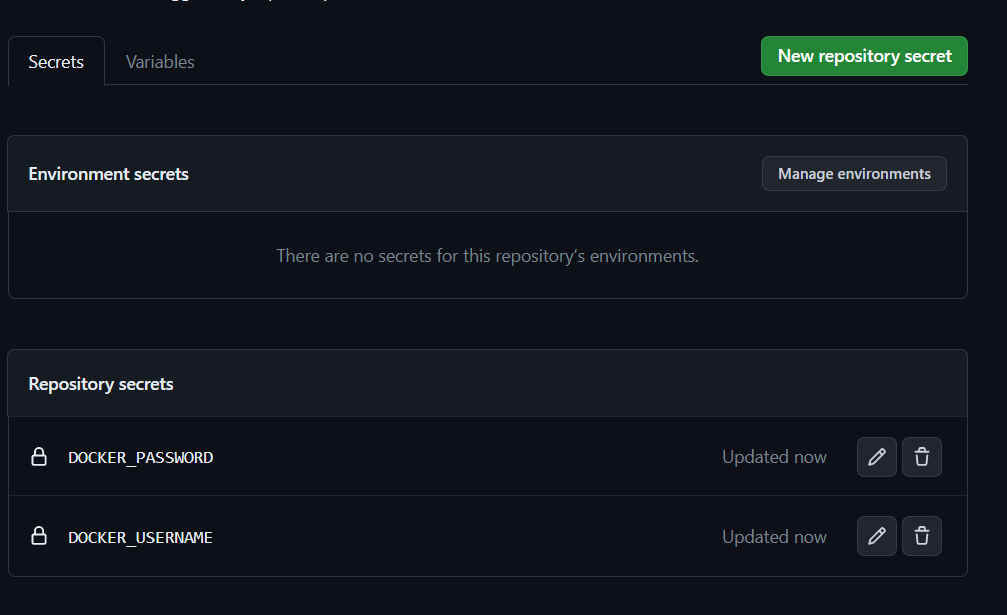
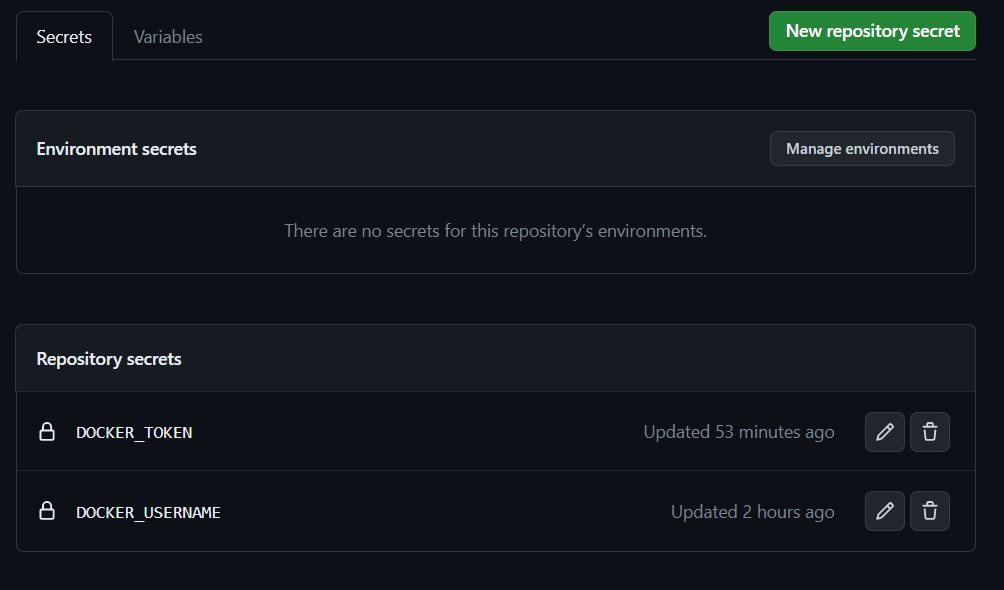
good

diff --git a/sprawozdanie.md b/sprawozdanie.md
@@ -24,7 +24,7 @@
         return np.mean(a)
     ```
 
-2. Utorzenie Unitestów testujących funkcje, testują poprawność również przy próbie podzielenia przez 0.
+2. Utorzenie unit testów testujących funkcje, testują poprawność również przy próbie podzielenia przez 0.
     ```python
     import kod
     import pytest
@@ -46,7 +46,7 @@
             assert kod.mean([3,4,5]) == 4, "should be 4"
     ```
 
-2. Uruchomienie unitestów lokanie w celu weryfikacji - wszystke przechodzą.
+2. Uruchomienie unit testów lokanie w celu weryfikacji - wszystke przechodzą.
     <br>
     ![Alt text](ss/Lab5/test%20local.PNG)
 
@@ -176,12 +176,56 @@
     <br>
     ![Alt text](ss/Lab7/create%20branch.PNG)
 
+2. Utworzenie akcji uruchamiającej unit testy w momencie pull requesta wykonywanego na gałąź dev. Fragment pliku:
+    <br>
+    ![Alt text](ss/Lab7/dev%20test.PNG)
 
-   
+3. Utworzenie akcji uruchamiającej testy funkcjonalne w momencie pull requesta wykonywanego na gałąź test. Fragment pliku:
+   <br>
+    ![Alt text](ss/Lab7/api%20test.PNG)
 
-Na branch dev na pull requesta uruchomić testy jednostkowe (lab 05)
-Na branch test na pull requesta uruchomić testy funkcjonalne (lab 06)
-W momencie jak pozytywnie przejdzie merge na branchu test to po wykonaniu testów obraz ma być spuchowany do docker huba ( login i hasło umieszczamy w sekretach repozytoirum, nie podajemy czystego hasła i loginu w kodzie git actions)
-W branchu dev_feature_1 wykonaj zmiany dla kodu programu
-Zmerguj za pomocą pull requesta branch dev_feature_1 z branchem dev (pokaż jak tety się uruchomiły)
-Zmerguj za pomocą pull requesta branch dev z branchem test (pokaż jak tety się uruchomiły, oraz czy po przejściu testach obraz pojawił się w docker hubie) UWAGA przetestuj też dla sytuacji gdy aplikacja nie przejdzie testów ( na branchu dev pull request z failem na testach, a w branchu test nie powinno dojść do spushowania aplikacji do dockerhuba)asws
+4. Utworzenie akcji, która wykonuje push do docker hub'a po połączeniu na gałęzi test. 
+    <br>
+    ![Alt text](ss/Lab7/push%20to%20dockerhub.PNG)
+
+5. Aby możliwe było połączenie z docker hub należy utworzyć sekrety.
+    <br>
+    ![Alt text](ss/Lab7/add%20secrets.PNG)
+
+6. Zmodyfikowanie plików tak, by nie przechodziły testów.Próba wykonania merga gałęzi dev_feature_1 do dev.
+    <br>
+    ![Alt text](ss/Lab7/01%20bad%20merge.PNG)
+
+7. Sprawdzenie powodu niepowodzenia.
+    <br>
+    ![Alt text](ss/Lab7/01%20why.PNG)
+
+8. Naprawienie pliku.
+    <br>
+    ![Alt text](ss/Lab7/02%20fix.PNG)
+
+9.  Próba wykonania merga gałęzi dev do test.
+    <br>
+    ![Alt text](ss/Lab7/03%20bad.PNG)
+
+10. Sprawdzenie powodu niepowodzenia.
+    <br>
+    ![Alt text](ss/Lab7/04%20why.PNG)
+
+11. Naprawienie pliku.
+    <br>
+    ![Alt text](ss/Lab7/05%20good.PNG)
+
+12. Wykonanie merga.
+    <br>
+    ![Alt text](ss/Lab7/06%20merge.PNG)
+
+13. Sprawdzenie poprawności działania pusha do docker huba.
+    <br>
+    ![Alt text](ss/Lab7/07%20good%20push%20to%20docker.PNG)
+
+14. Na docker hub sprawdzenie dodania obrazu.
+    <br>
+    ![Alt text](ss/Lab7/10%20docker%20hub.PNG)
+
+
